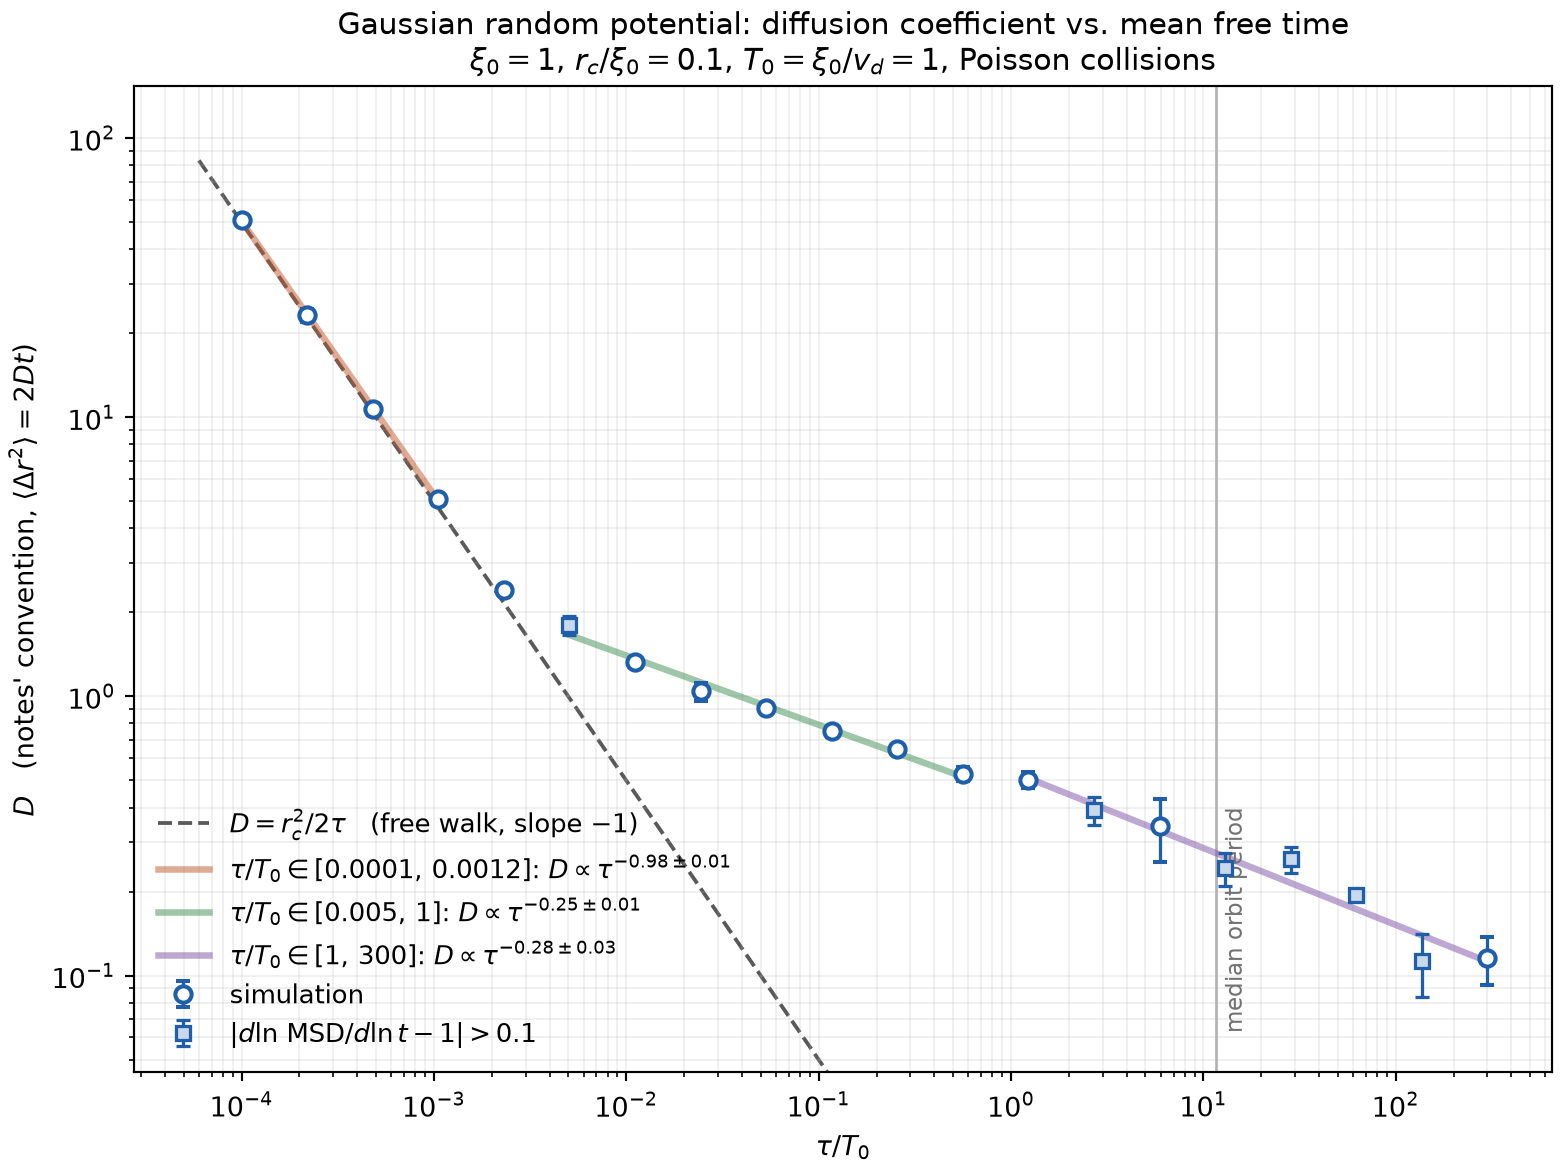
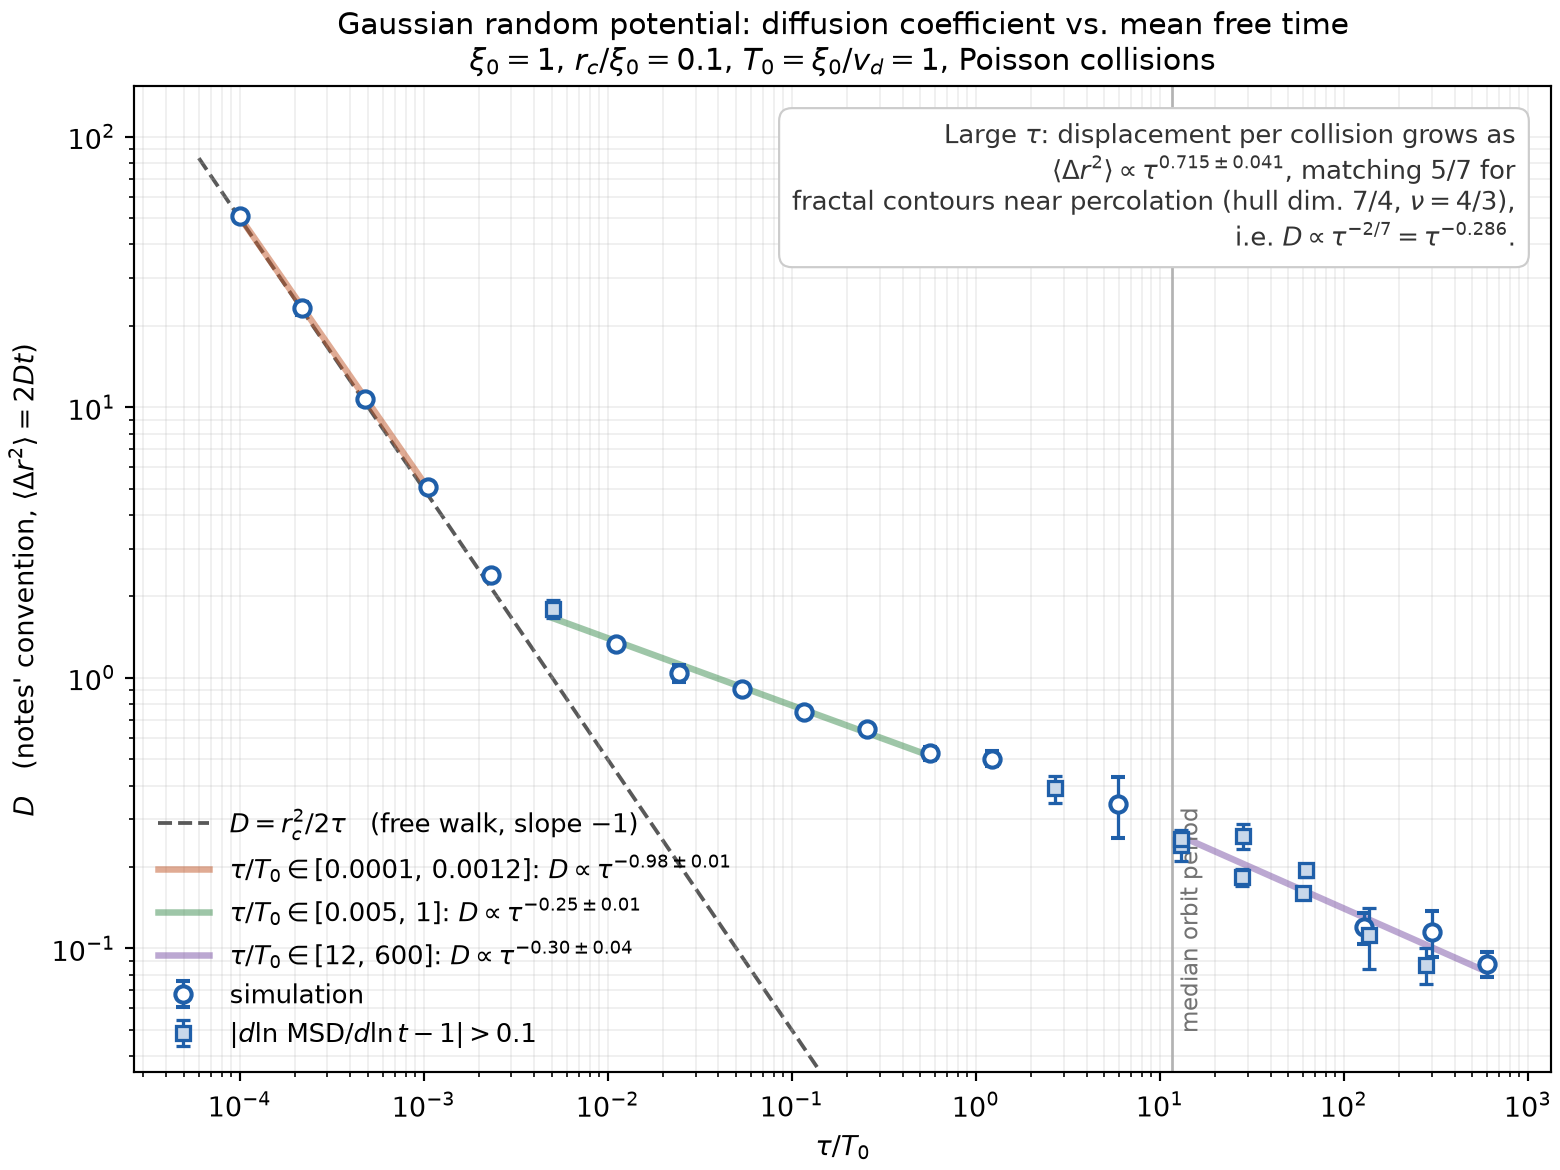
Random potential: three regimes in D(tau), the largest one D ~ tau^-2/7
Better-resolved large-tau sweep (tau/T0 = 13..600, 300 collisions per walker,
768 walkers over 2 disorder realisations) combined with the main sweep gives:

  tau/T0 = 1e-4..1e-3   D ~ tau^-0.981 +- 0.009   the free walk, to 2-7%
  tau/T0 = 5e-3..1      D ~ tau^-0.248 +- 0.013   crossover
  tau/T0 = 12..600      D ~ tau^-0.30  +- 0.04    many loops per collision

The large-tau regime is the percolation one.  Measuring the displacement per
collision directly gives <|dr|^2> ~ tau^(0.715 +- 0.041): in time tau a walker
covers arclength v*tau, which on a hull of fractal dimension 7/4 spans a region
of size (v tau)^(4/7), and the level window whose contours are that large is
|V| < (v tau)^(-3/7); averaging over the level distribution gives exactly
5/7 = 0.714, hence D ~ tau^(5/7-1) = tau^(-2/7) = tau^-0.286.  The -0.25
stretch below it is the crossover between the free walk and this asymptote,
not a law of its own.

plot_random_D_vs_tau.py now draws the random potential alone across all seven
decades.

diff --git a/scripts/plot_random_D_vs_tau.py b/scripts/plot_random_D_vs_tau.py
@@ -42,6 +42,8 @@ def main():
     p.add_argument("--windows", nargs="*", type=float,
                    default=[1e-4, 3e-3, 0.3, 30.0, 100.0, 1e9],
                    help="pairs of (lo, hi) tau bounds, one pair per regime fit")
+    p.add_argument("--annotate", default=None,
+                   help="text box drawn in the upper right")
     p.add_argument("--period", type=float, default=None,
                    help="median orbital period, drawn as a vertical marker")
     args = p.parse_args()
@@ -104,6 +106,10 @@ def main():
                  r"Poisson collisions", fontsize=11)
     ax.grid(True, which="both", alpha=0.22, lw=0.6)
     ax.legend(frameon=False, fontsize=9.5, loc="lower left")
+    if args.annotate:
+        ax.text(0.975, 0.965, args.annotate, transform=ax.transAxes, ha="right",
+                va="top", fontsize=9.5, color="0.2",
+                bbox=dict(boxstyle="round,pad=0.5", fc="white", ec="0.8", lw=0.8))
 
     os.makedirs(os.path.dirname(args.out) or ".", exist_ok=True)
     fig.savefig(args.out, dpi=195)

diff --git a/README.md b/README.md
@@ -161,23 +161,63 @@ are closed squares trapped inside one cell, but a random landscape has contours
 of *every* size, diverging at the percolating level `V = 0`, and a walker that
 lands near that level rides a single contour for tens of `xi0`.
 
-![D vs tau, random](figures/D_vs_tau_random.png)
+![D vs tau, random](figures/D_vs_tau_random_only.png)
 
-**`D(tau)` is far shallower than on the pyramid.** Over `tau/T0 = 0.03 ... 30`
-at `r_c/xi0 = 0.1`:
+Sweeping `tau/T0` over seven decades at `r_c/xi0 = 0.1` gives **three regimes**:
 
-| landscape | measured exponent in `D ~ tau^-alpha` |
-|---|---|
-| random, `tau/T0 = 0.3 - 30` | **0.21 +- 0.01** |
-| random, whole range | 0.23 +- 0.01 |
-| pyramid, `tau/T0 = 0.3 - 30` | 0.80 +- 0.04 |
-| pyramid, `tau/T0 > 2` (notes' regime 3) | 0.98 +- 0.02 |
+| regime | `tau/T0` | measured | |
+|---|---|---|---|
+| collision-limited | `1e-4 .. 1e-3` | `D ~ tau^(-0.981 +- 0.009)` | the free walk `D = r_c^2/2 tau`, to 2-7% |
+| landscape-dominated | `5e-3 .. 1` | `D ~ tau^(-0.248 +- 0.013)` | |
+| many loops per collision | `12 .. 600` | `D ~ tau^(-0.30 +- 0.04)` | |
 
-so the ratio `D_random/D_pyramid` grows from about 3 at `tau ~ T0/3` to **50** at
-`tau = 30 T0`. The notes' regime-3 picture -- only walkers within `r_c` of a cell
-edge can move on, and they move exactly one cell -- has no analogue here: there
-is no cell to escape, and a rarer collision simply means the walker rides its
-contour further, which nearly cancels the explicit `1/tau`.
+1. **Short `tau` recovers the free walk.** With a collision every `1e-4 T0` the
+   drift covers only `1e-4 xi0` between kicks and the landscape is irrelevant:
+   `D/(r_c^2/4 tau) = 1.02` at the shortest time, rising to 1.1 by
+   `tau/T0 = 2e-3` as the drift starts to help. By `tau/T0 = 300` the landscape
+   has multiplied D by nearly **7000** over the free-walk value.
+
+2. **The large-`tau` regime is a distinct power law, and it is the percolation
+   one.** Once `tau` exceeds the typical orbital period (median ~12 `T0`, from
+   `Potential.orbit_period`) a walker on a closed contour has gone all the way
+   round, so its displacement stops growing -- but contours near the percolating
+   level are unbounded and fractal, and those are the ones that keep
+   transporting. Measuring the displacement per collision directly:
+
+   ```
+   <|dr|^2> per collision  ~  tau^(0.715 +- 0.041)      (tau/T0 >= 12)
+   ```
+
+   In time `tau` a walker covers arclength `v tau`, which on a hull of fractal
+   dimension 7/4 spans a region of size `(v tau)^(4/7)`; the level window whose
+   contours are that large is `|V| < (v tau)^(-3/7)` with `xi(V) ~ |V|^(-4/3)`.
+   Averaging `min(contour size, (v tau)^(4/7))^2` over the level distribution
+   gives `<|dr|^2> ~ (v tau)^(5/7)`, i.e. **`5/7 = 0.714`** against the measured
+   `0.715 +- 0.041`, and therefore
+
+   ```
+   D ~ tau^(5/7 - 1) = tau^(-2/7) = tau^(-0.286)
+   ```
+
+   against the measured `-0.30 +- 0.04`. The intermediate `-0.25` regime is the
+   crossover between the free walk and this asymptote, not a law of its own.
+
+**Efficiency: loop detection.** Reaching `tau/T0 = 600` by brute-force
+integration would mean 4800 RK4 steps for every single drift. Instead
+`Potential.orbit_period` times the closed orbit -- integrating until the walker
+has left a neighbourhood of its start and come back, with both radii scaled by
+the arclength covered in one step so the test works for a tiny orbit round an
+extremum and a huge one near percolation alike, then refining the crossing time
+by projecting the residual offset onto the drift velocity -- and
+`propagate(loop_detect=True)` replaces `tau` by `tau mod P`. A drift then costs
+about `2P` of integration instead of `tau`. It was checked against the exact
+pyramid map (periods to 0.1%), against the sinusoid (propagating by the detected
+period returns to the start to 3e-4) and against brute force on the random field
+itself; it is 14x faster at `tau = 1000` and the gap grows linearly. A walker
+whose orbit does not close within `tau` has by then been integrated for exactly
+`tau`, so it keeps that end point rather than paying twice.
+
+Two numerical points that mattered:
 
 Two numerical points that mattered:
 
@@ -188,6 +228,10 @@ Two numerical points that mattered:
   therefore repeated with `--fixed-time`, every `tau` run for the *same* total
   time so that D comes from one common lag window. The two protocols agree to
   within 5% at every matched `tau`, so the exponent is not an artefact of it.
+* **Fixed step size, not a fixed step count.** With exponential drift times, a
+  walker that draws `dt = 5 tau` must not be integrated with a step five times
+  coarser than the scheme was validated at, so the integrator takes a fixed `h`
+  and a per-walker number of steps.
 * **RK4 step size.** The projection cannot hold a walker on its contour once the
   time step exceeds ~`0.25 xi0/v_rms`: at `h = 1` the level drifts by up to 0.19
   and D is inflated 2x. At `h = 0.25` and `h = 0.125`, V is conserved to 5e-7 and
@@ -196,9 +240,9 @@ Two numerical points that mattered:
   +-20% realisation scatter, which is why each point averages 5 independent
   fields.
 
-Not attempted here: a percolation-scaling (Isichenko-style) prediction for that
-exponent. The measurement is what it is; the notes' own section-6 derivation is
-excluded from `mrdiff/theory.py` on the grounds that its argument is unsound.
+The percolation scaling quoted above uses only the standard 2-D exponents (hull
+dimension 7/4, `nu = 4/3`); the notes' own section-6 derivation is still excluded
+from `mrdiff/theory.py` on the grounds that its argument is unsound.
 
 ## Modelling choices worth knowing about
 
